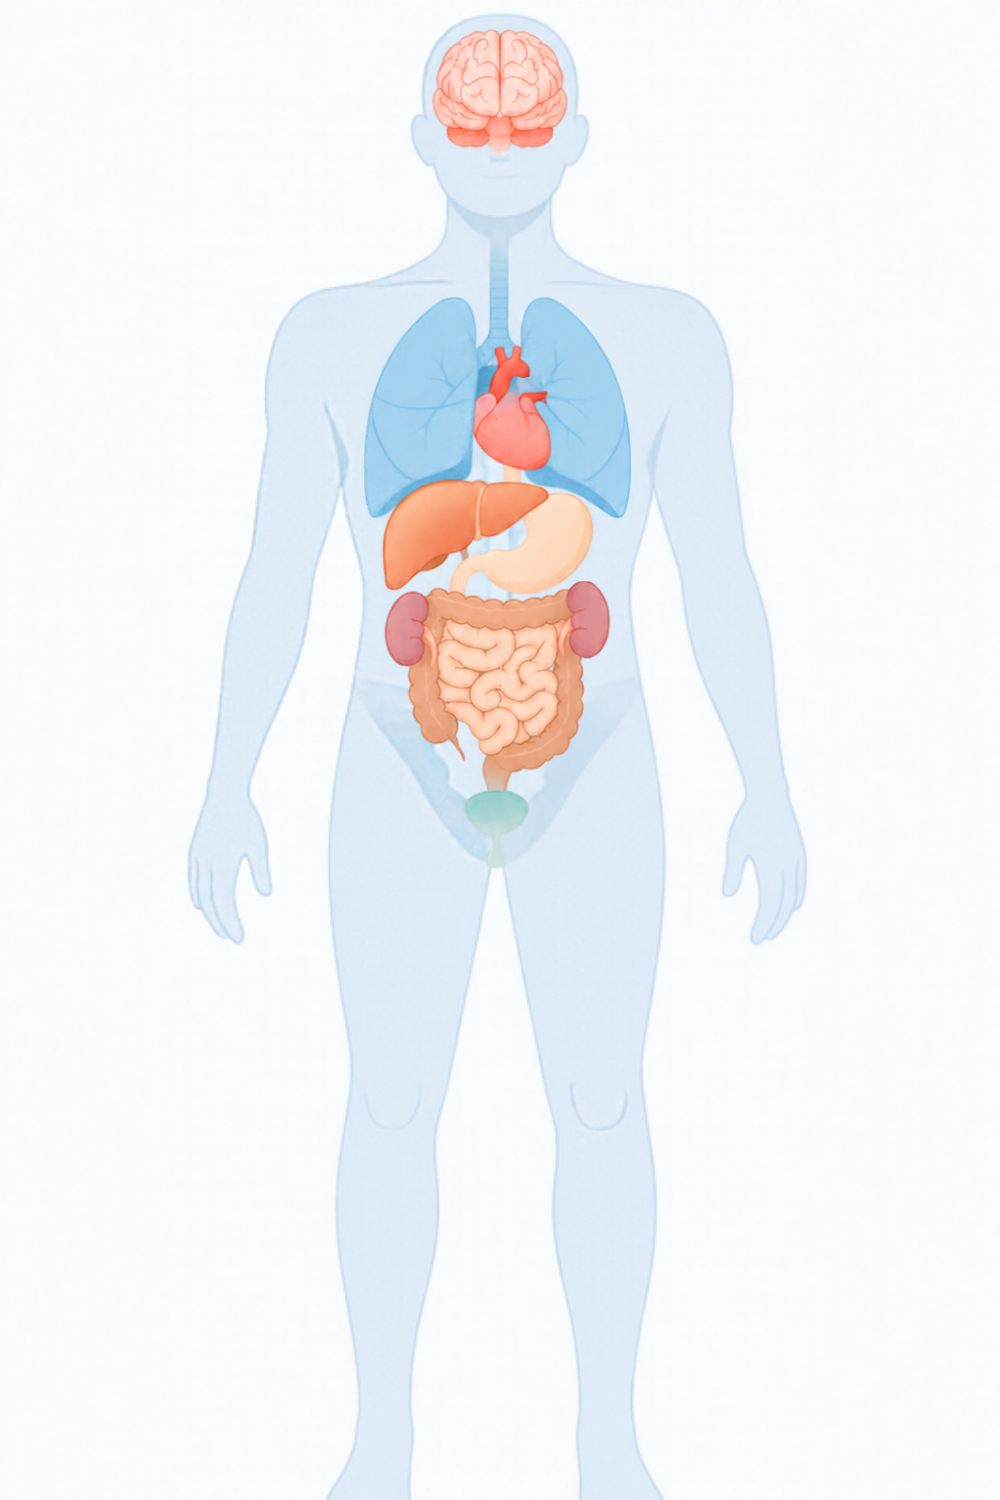
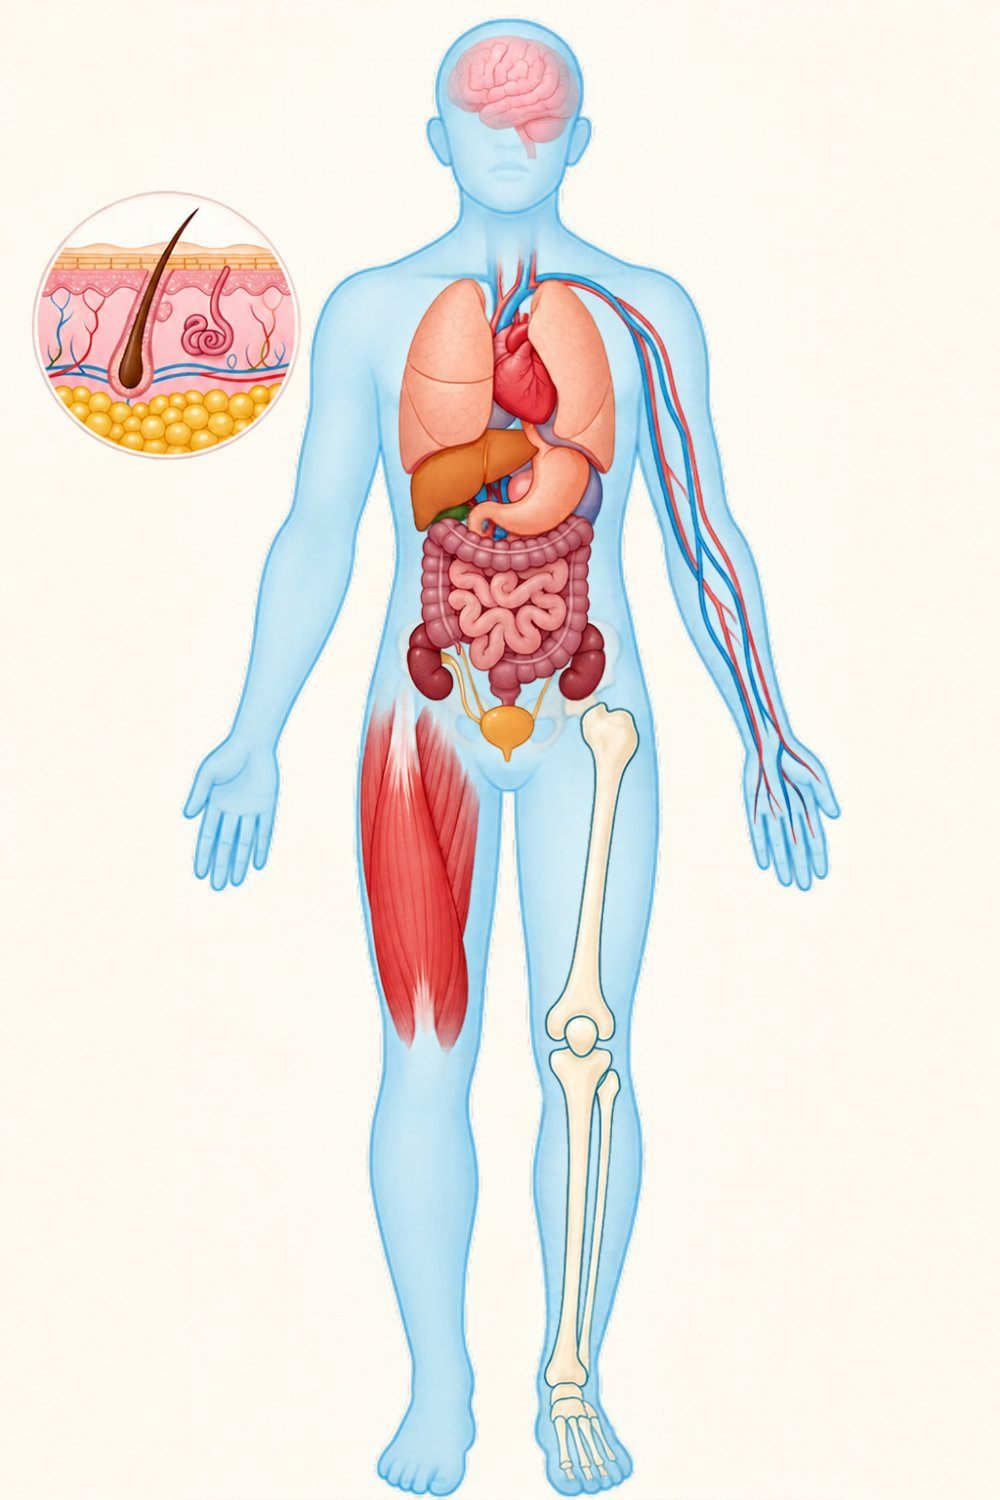
Deploy from embryology@85ef8eb

diff --git a/app/body.js b/app/body.js
@@ -1,44 +1,6 @@
-// 몸 지도: Canva로 만든 몸 그림(app/body.jpg, 1000 × 1500) 위에 기관 점을 찍는다.
+// 몸 지도: Canva로 만든 몸 그림(app/body.jpg, 1000 × 1500) 위에 기관 점을 찍는다. 뼈·근육·혈관·피부도 그림에 들어 있다.
 // 기관 좌표(data/lineage.json의 organs[].bodyPos)는 이 그림의 픽셀 좌표다. 그림을 바꾸면 좌표도 다시 맞출 것.
 export const BODY_W = 1000, BODY_H = 1500;
-
-// 그림에 없는 기관(뼈, 골격근, 혈액, 피부)을 몸 그림 위에 겹쳐 그린다. 좌표는 body.jpg 픽셀 기준.
-// 뼈: 오른다리(보는 쪽 오른쪽) / 골격근: 왼허벅지 / 혈관: 오른팔 / 피부: 왼팔 확대 원.
-const EXTRAS = `
-  <g class="bx-vessel" fill="none" stroke-linecap="round" stroke-linejoin="round" opacity=".85">
-    <path stroke="#D8363A" stroke-width="7" d="M505 365 C560 330 620 325 660 340 C690 400 705 520 718 620 C732 720 750 820 770 895 M770 895 l-8 34 M770 895 l6 36 M770 895 l18 28"/>
-    <path stroke="#3E6FD8" stroke-width="7" d="M522 378 C572 350 626 350 674 356 C702 414 718 520 734 620 C748 720 764 815 786 890 M786 890 l14 30 M786 890 l24 20"/>
-  </g>
-  <g class="bx-bone" fill="#F4EDDD" stroke="#A8977A" stroke-width="3" stroke-linejoin="round">
-    <path d="M566 888 q-14 -6 -12 10 q4 14 18 12 L583 1092 q-10 8 -2 18 q10 6 20 -2 q10 6 16 -6 q2 -12 -12 -14 L594 905 q12 -6 6 -18 q-10 -10 -22 0 q-6 -4 -12 1 z"/>
-    <ellipse cx="600" cy="1118" rx="13" ry="11"/>
-    <path d="M582 1136 q-6 -10 8 -12 l26 0 q12 4 4 14 L606 1418 q10 12 -2 18 l-16 0 q-10 -6 -2 -18 z"/>
-    <path d="M626 1146 q2 -10 10 -4 L638 1410 q4 10 -4 12 q-8 -2 -6 -12 z"/>
-  </g>
-  <g class="bx-muscle" stroke="#A83B33" stroke-width="2.5" stroke-linejoin="round">
-    <path fill="#D9655B" d="M360 900 C342 980 348 1060 382 1104 C394 1060 394 980 386 900 Z"/>
-    <path fill="#E07368" d="M398 884 C384 960 392 1040 405 1096 C420 1040 430 960 420 884 Z"/>
-    <path fill="#D9655B" d="M444 960 C468 1012 464 1072 432 1106 C424 1060 428 1000 444 960 Z"/>
-    <path fill="none" stroke="#F2A79F" stroke-width="2" d="M368 930 l6 140 M410 900 l-2 180 M447 990 l-8 90"/>
-    <path fill="#F3EEE6" stroke="#B9A99A" d="M398 1094 l14 0 l-2 20 l-10 0 z"/>
-  </g>
-  <g class="bx-skin">
-    <circle cx="297" cy="610" r="26" fill="none" stroke="#7A5648" stroke-width="3" stroke-dasharray="7 5"/>
-    <line x1="275" y1="596" x2="214" y2="560" stroke="#7A5648" stroke-width="3"/>
-    <clipPath id="skinClip"><circle cx="150" cy="490" r="86"/></clipPath>
-    <g clip-path="url(#skinClip)">
-      <rect x="60" y="400" width="180" height="60" fill="#F7D9C9"/>
-      <rect x="60" y="460" width="180" height="60" fill="#EDB6A3"/>
-      <rect x="60" y="520" width="180" height="60" fill="#F8E6BE"/>
-      <path d="M60 460 q15 -10 30 0 t30 0 t30 0 t30 0 t30 0 t30 0" fill="none" stroke="#C98471" stroke-width="2.5"/>
-      <g fill="#F2D49A" stroke="#D8B56E" stroke-width="1.5"><circle cx="85" cy="545" r="10"/><circle cx="110" cy="555" r="9"/><circle cx="190" cy="548" r="11"/><circle cx="215" cy="560" r="9"/></g>
-      <path d="M150 400 L150 446" stroke="#5A3A30" stroke-width="4"/>
-      <path d="M144 446 q6 -6 12 0 L160 512 q-10 12 -20 0 z" fill="#E8A48E" stroke="#9C5E4C" stroke-width="2"/>
-      <path d="M196 410 L196 470 q0 22 10 30 q10 8 0 18 q-14 4 -14 -10" fill="none" stroke="#6E8FC8" stroke-width="3"/>
-      <path d="M60 438 L240 438" stroke="#E9C2B1" stroke-width="2" opacity=".7"/>
-    </g>
-    <circle cx="150" cy="490" r="86" fill="none" stroke="#7A5648" stroke-width="4"/>
-  </g>`;
 
 export function bodySvg(organs, selected, col) {
   const dots = organs.map(o => {
@@ -48,5 +10,5 @@ export function bodySvg(organs, selected, col) {
       <title>${o.ko}</title><circle class="halo" cx="${x}" cy="${y}" r="38"/><circle class="core" cx="${x}" cy="${y}" r="17"/><circle class="pip" cx="${x}" cy="${y}" r="7"/></g>`;
   }).join("");
   return `<svg viewBox="0 0 ${BODY_W} ${BODY_H}" role="group" aria-label="기관 위치 그림">
-    <image class="body-img" href="app/body.jpg" x="0" y="0" width="${BODY_W}" height="${BODY_H}" preserveAspectRatio="xMidYMid meet"/>${EXTRAS}${dots}</svg>`;
+    <image class="body-img" href="app/body.jpg" x="0" y="0" width="${BODY_W}" height="${BODY_H}" preserveAspectRatio="xMidYMid meet"/>${dots}</svg>`;
 }

diff --git a/sw.js b/sw.js
@@ -1,6 +1,6 @@
 // 오프라인 지원: 앱 파일과 데이터를 캐시해 두고, 온라인일 때는 새 버전을 받아 갱신한다.
 // 데이터나 앱 파일을 바꾸면 VERSION을 올린다.
-const VERSION = "v12-2026-11-28";
+const VERSION = "v13-2026-11-28";
 const CORE = [
   "./", "index.html", "manifest.webmanifest",
   "app/styles.css", "app/main.js", "app/data.js", "app/body.js", "app/study.js", "app/stages.js", "app/body.jpg", "app/icon.svg",
